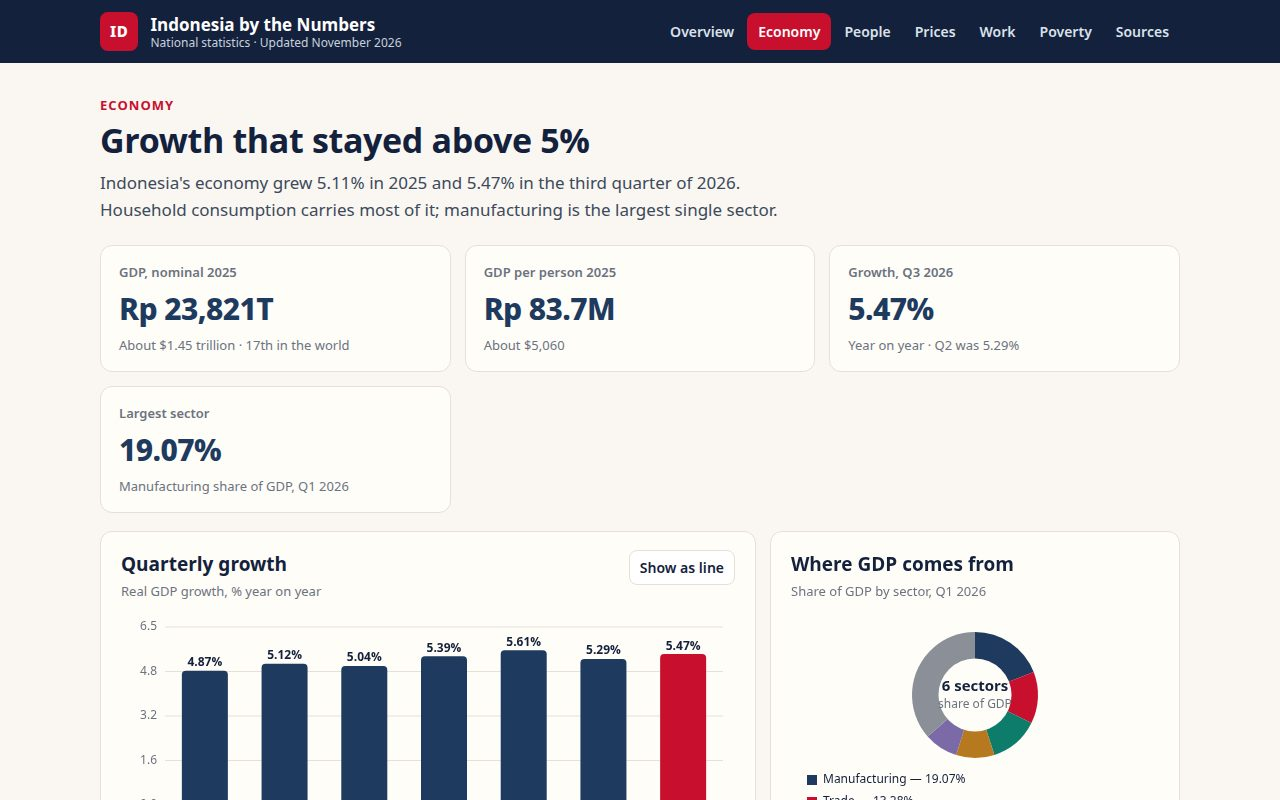
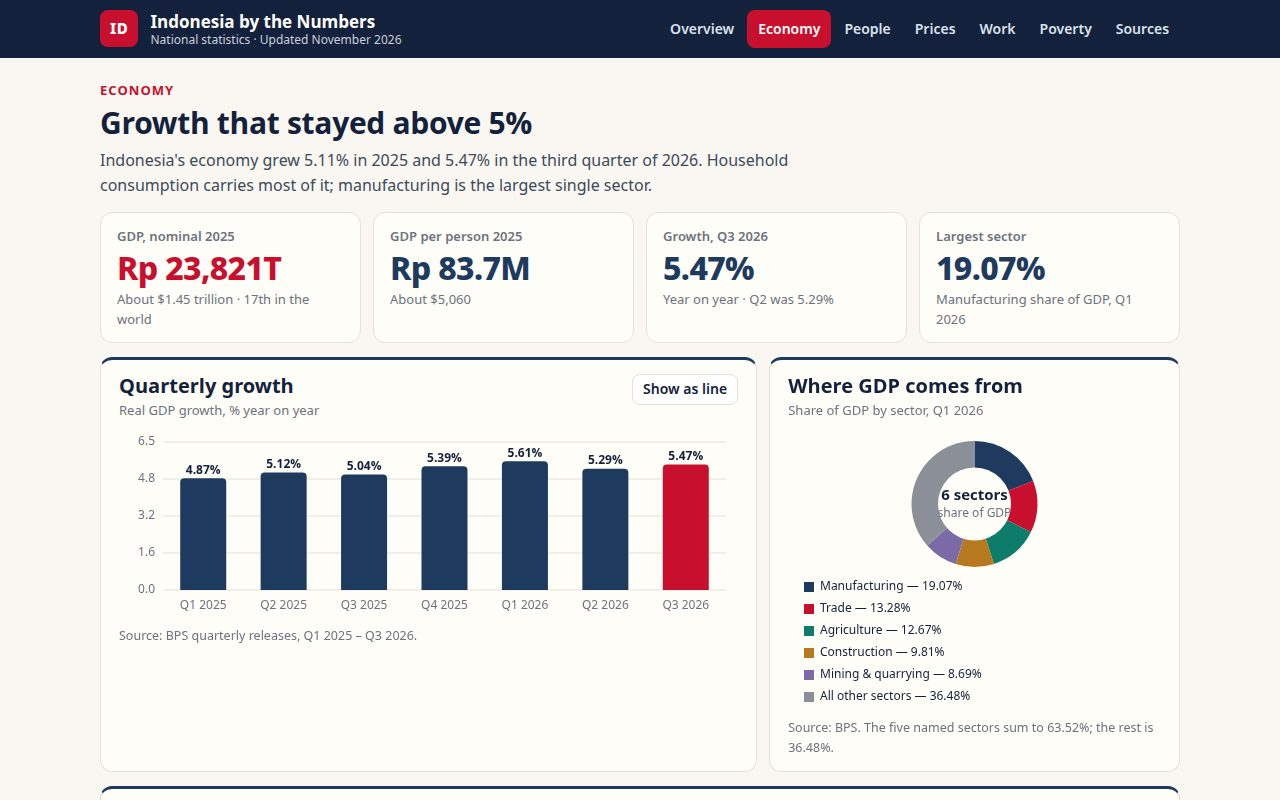
Polish layout so charts fit the screenshot viewport
* Polish layout so charts fit the screenshot viewport

* Polish layout so charts fit the screenshot viewport

* Polish layout so charts fit the screenshot viewport

Changed region(s): [[0.0, 0.0, 1.0, 1.0], [0.5938, 0.9062, 0.6562, 0.9375]]

diff --git a/app/css/style.css b/app/css/style.css
@@ -24,9 +24,9 @@ body {
 
 /* Header */
 .site-header { background: var(--ink); color: #fff; position: sticky; top: 0; z-index: 10; }
-.header-inner { max-width: 1120px; margin: 0 auto; padding: 12px 20px; display: flex; align-items: center; gap: 24px; flex-wrap: wrap; }
+.header-inner { max-width: 1120px; margin: 0 auto; padding: 10px 20px; display: flex; align-items: center; gap: 24px; flex-wrap: wrap; }
 .brand { display: flex; align-items: center; gap: 12px; color: #fff; text-decoration: none; }
-.brand-mark { background: var(--red); color: #fff; font-weight: 800; font-size: 15px; padding: 8px 10px; border-radius: 8px; letter-spacing: 0.04em; }
+.brand-mark { background: var(--red); color: #fff; font-weight: 800; font-size: 15px; padding: 7px 10px; border-radius: 8px; letter-spacing: 0.04em; }
 .brand-text { display: flex; flex-direction: column; line-height: 1.25; }
 .brand-text strong { font-size: 17px; }
 .brand-text small { color: #c8d0dc; font-size: 12px; }
@@ -36,27 +36,30 @@ body {
 .nav-link.active { background: var(--red); color: #fff; }
 
 /* Page */
-.page { max-width: 1120px; margin: 0 auto; padding: 28px 20px 40px; }
-.section-head { margin: 4px 0 22px; }
+.page { max-width: 1120px; margin: 0 auto; padding: 20px 20px 40px; }
+.section-head { margin: 2px 0 14px; }
 .kicker { color: var(--red); font-weight: 700; font-size: 13px; letter-spacing: 0.08em; text-transform: uppercase; margin: 0 0 6px; }
-.section-head h1 { font-size: 34px; line-height: 1.15; margin: 0 0 10px; letter-spacing: -0.01em; }
-.lede { font-size: 17px; color: #3d4a5c; max-width: 720px; margin: 0; }
+.section-head h1 { font-size: 30px; line-height: 1.15; margin: 0 0 8px; letter-spacing: -0.01em; }
+.lede { font-size: 16px; color: #3d4a5c; max-width: 780px; margin: 0; }
 
-/* Stat cards */
-.stat-grid { display: grid; grid-template-columns: repeat(3, 1fr); gap: 14px; margin-bottom: 18px; }
-.stat-card { background: var(--card); border: 1px solid var(--line); border-radius: var(--radius); padding: 16px 18px; }
+/* Stat cards: one row of four on desktop, so the headline figures and
+   the first charts all fit in one screenshot viewport. The lead figure
+   of each view is picked out in flag red. */
+.stat-grid { display: grid; grid-template-columns: repeat(4, 1fr); gap: 12px; margin-bottom: 14px; }
+.stat-card { background: var(--card); border: 1px solid var(--line); border-radius: var(--radius); padding: 13px 16px; }
+.stat-card:first-child .stat-value { color: var(--red); }
 .stat-label { margin: 0 0 4px; color: var(--muted); font-size: 13px; font-weight: 600; }
-.stat-value { margin: 0 0 2px; font-size: 30px; font-weight: 800; letter-spacing: -0.02em; color: var(--navy); }
+.stat-value { margin: 0 0 2px; font-size: 32px; font-weight: 800; line-height: 1.15; letter-spacing: -0.02em; color: var(--navy); }
 .stat-sub { margin: 0; color: var(--muted); font-size: 13px; }
 
 /* Panels */
-.panel-row { display: grid; grid-template-columns: 1.6fr 1fr; gap: 14px; margin-bottom: 18px; }
-.panel { background: var(--card); border: 1px solid var(--line); border-radius: var(--radius); padding: 18px 20px; margin-bottom: 18px; }
+.panel-row { display: grid; grid-template-columns: 1.6fr 1fr; gap: 12px; margin-bottom: 14px; }
+.panel { background: var(--card); border: 1px solid var(--line); border-top: 3px solid var(--navy); border-radius: var(--radius); padding: 14px 18px; margin-bottom: 14px; }
 .panel-row .panel { margin-bottom: 0; }
-.panel h2 { font-size: 19px; margin: 0 0 2px; }
-.panel-sub { color: var(--muted); font-size: 13px; margin: 0 0 12px; }
+.panel h2 { font-size: 20px; line-height: 1.2; margin: 0 0 2px; }
+.panel-sub { color: var(--muted); font-size: 13px; margin: 0 0 8px; }
 .panel canvas { width: 100%; display: block; }
-.source-note { color: var(--muted); font-size: 12.5px; margin: 10px 0 0; }
+.source-note { color: var(--muted); font-size: 12.5px; margin: 8px 0 0; }
 .body-text { color: #3d4a5c; max-width: 720px; }
 .year-pick { float: right; font-size: 14px; font-weight: 400; }
 .year-pick select, .year-pick input, .year-pick button {
@@ -100,8 +103,19 @@ body {
   .fact-list { grid-template-columns: 1fr; }
 }
 @media (max-width: 520px) {
-  .stat-grid { grid-template-columns: 1fr; }
-  .stat-value { font-size: 26px; }
-  .header-inner { gap: 10px; }
+  /* Two-across stat cards on phones, so the first chart still fits
+     under them in one phone screenshot. */
+  .stat-grid { grid-template-columns: repeat(2, 1fr); gap: 10px; }
+  .stat-card { padding: 11px 13px; }
+  .stat-label { font-size: 12px; }
+  .stat-value { font-size: 24px; }
+  .stat-sub { font-size: 12px; }
+  .panel { padding: 12px 14px; }
+  .header-inner { gap: 8px; padding: 10px 16px; }
+  .brand-text small { display: none; }
   .main-nav { margin-left: 0; }
+  .nav-link { padding: 6px 9px; font-size: 13px; }
+  .page { padding: 16px 16px 32px; }
+  .section-head h1 { font-size: 24px; }
+  .lede { font-size: 15px; }
 }

diff --git a/app/js/charts.js b/app/js/charts.js
@@ -21,6 +21,14 @@ function setup(canvas, height) {
   return { ctx, w, h: height };
 }
 
+// Charts fit the space the screenshot gives them: shorter on narrow
+// (phone) canvases, so the whole chart — bars, labels and axis — stays
+// inside the viewport instead of being cut at its bottom edge.
+function fitHeight(canvas) {
+  const w = canvas.clientWidth || canvas.parentElement.clientWidth || 600;
+  return w < 420 ? 150 : 190;
+}
+
 function axes(ctx, w, h, pad, maxV, ticks) {
   ctx.strokeStyle = GRID;
   ctx.fillStyle = MUTED;
@@ -39,7 +47,8 @@ function axes(ctx, w, h, pad, maxV, ticks) {
 }
 
 export function drawBarChart(canvas, data, opts) {
-  const { unit = "", color = NAVY, height = 220, highlightLast = false } = opts || {};
+  const { unit = "", color = NAVY, height: optHeight, highlightLast = false } = opts || {};
+  const height = optHeight || fitHeight(canvas);
   const { ctx, w, h } = setup(canvas, height);
   const pad = { top: 14, right: 12, bottom: 28, left: 44 };
   const maxV = Math.max(...data.map((d) => d.value)) * 1.15;
@@ -65,7 +74,8 @@ export function drawBarChart(canvas, data, opts) {
 }
 
 export function drawLineChart(canvas, data, opts) {
-  const { unit = "", color = RED, height = 220, fill = true } = opts || {};
+  const { unit = "", color = RED, height: optHeight, fill = true } = opts || {};
+  const height = optHeight || fitHeight(canvas);
   const { ctx, w, h } = setup(canvas, height);
   const pad = { top: 16, right: 16, bottom: 28, left: 48 };
   const values = data.map((d) => d.value);
@@ -91,6 +101,12 @@ export function drawLineChart(canvas, data, opts) {
   ctx.strokeStyle = color;
   ctx.lineWidth = 2.5;
   ctx.stroke();
+  // End labels are clamped inside the canvas: a centred "Mar 2026" or
+  // "284.67M" at the last point would otherwise run past the right edge.
+  const clampX = (x, text) => {
+    const tw = ctx.measureText(text).width;
+    return Math.max(tw / 2 + 2, Math.min(w - tw / 2 - 2, x));
+  };
   ctx.textAlign = "center";
   data.forEach((d, i) => {
     ctx.beginPath();
@@ -100,26 +116,30 @@ export function drawLineChart(canvas, data, opts) {
     ctx.strokeStyle = color;
     ctx.lineWidth = 2;
     ctx.stroke();
+    const valueText = d.value.toFixed(2).replace(/\.00$/, "") + unit;
     ctx.fillStyle = INK;
     ctx.font = "bold 12px system-ui, -apple-system, sans-serif";
-    ctx.fillText(d.value.toFixed(2).replace(/\.00$/, "") + unit, xs[i], ys[i] - 12);
+    ctx.fillText(valueText, clampX(xs[i], valueText), ys[i] - 12);
     ctx.font = "12px system-ui, -apple-system, sans-serif";
     ctx.fillStyle = MUTED;
-    ctx.fillText(d.label, xs[i], h - pad.bottom + 16);
+    ctx.fillText(d.label, clampX(xs[i], d.label), h - pad.bottom + 16);
   });
 }
 
 export function drawDonut(canvas, data, opts) {
-  const { height = 220, colors = [NAVY, RED, TEAL, AMBER, "#7c6aa8", "#8a8f98"], centerTop = null, centerSub = "share of GDP" } = opts || {};
+  const { height: optHeight, colors = [NAVY, RED, TEAL, AMBER, "#7c6aa8", "#8a8f98"], centerTop = null, centerSub = "share of GDP" } = opts || {};
+  const height = optHeight || fitHeight(canvas);
   // Wide canvas: legend beside the ring. Narrow canvas (phones): legend
   // below the ring, with a taller canvas so nothing is clipped.
   const probeW = canvas.clientWidth || canvas.parentElement.clientWidth || 600;
   const side = probeW >= 420;
-  const tall = side ? height : 178 + data.length * 22 + 8;
+  // Narrow layout packs the ring and legend tight: ring centre at 76 with
+  // radius 63, legend rows 22 apart starting 20 below the ring's edge.
+  const tall = side ? height : 158 + (data.length - 1) * 22 + 14;
   const { ctx, w, h } = setup(canvas, tall);
   const total = data.reduce((s, d) => s + d.value, 0);
   const cx = side ? 92 : w / 2;
-  const cy = side ? h / 2 : 82;
+  const cy = side ? h / 2 : 76;
   const r = Math.min(78, (side ? h : 150) / 2 - 12);
   let a = -Math.PI / 2;
   data.forEach((d, i) => {
@@ -157,7 +177,7 @@ export function drawDonut(canvas, data, opts) {
       ly += 24;
     });
   } else {
-    let ly = cy + r + 22;
+    let ly = cy + r + 20;
     data.forEach((d, i) => {
       ctx.fillStyle = colors[i % colors.length];
       ctx.fillRect(16, ly - 5, 10, 10);
